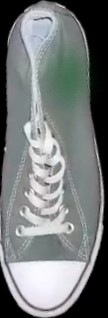
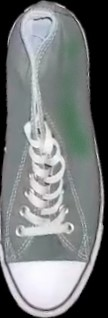
fix small

Changed region(s): [[0.4444, 0.1698, 0.8333, 0.3113], [0.5833, 0.3396, 0.8611, 0.5094]]

diff --git a/FQCS.ColorDetection/FQCS_detector/detector.py b/FQCS.ColorDetection/FQCS_detector/detector.py
@@ -9,13 +9,13 @@ from imutils import perspective
 class FQCSDetector:
 
     def preprocess_for_cd(self, img, img_size = (32, 64),blur_val = 0.05, alpha=1, beta=-150, sat_adj=2):
-        img = helper.change_contrast_and_brightness(img, alpha, beta)
-        img = cv2.blur(img, (round(img.shape[0] * blur_val),round(img.shape[1] * blur_val)))
-        img = cv2.resize(img, img_size)
         if (sat_adj!=1):
             img = cv2.cvtColor(img, cv2.COLOR_BGR2HSV)
             img[:,:,1]*=sat_adj
             img = cv2.cvtColor(img, cv2.COLOR_HSV2BGR)
+        img = helper.change_contrast_and_brightness(img, alpha, beta)
+        img = cv2.blur(img, (round(img.shape[0] * blur_val),round(img.shape[1] * blur_val)))
+        img = cv2.resize(img, img_size)
         return img
 
     def find_color_diff(self, test, true, matrix, ver_step, hor_step, biases,C1,C2,psnrTriggerValue,min_similarity):

diff --git a/FQCS.ColorDetection/FQCS_detector/main.py b/FQCS.ColorDetection/FQCS_detector/main.py
@@ -81,7 +81,7 @@ while not found:
                 [0.65, 1, 1, 0.65],
                 [0.1, 1.1, 1.1, 0.1],
             ])
-            sat_adj = 1
+            sat_adj = 2
             min_similarity = 0.8
 
             # output
